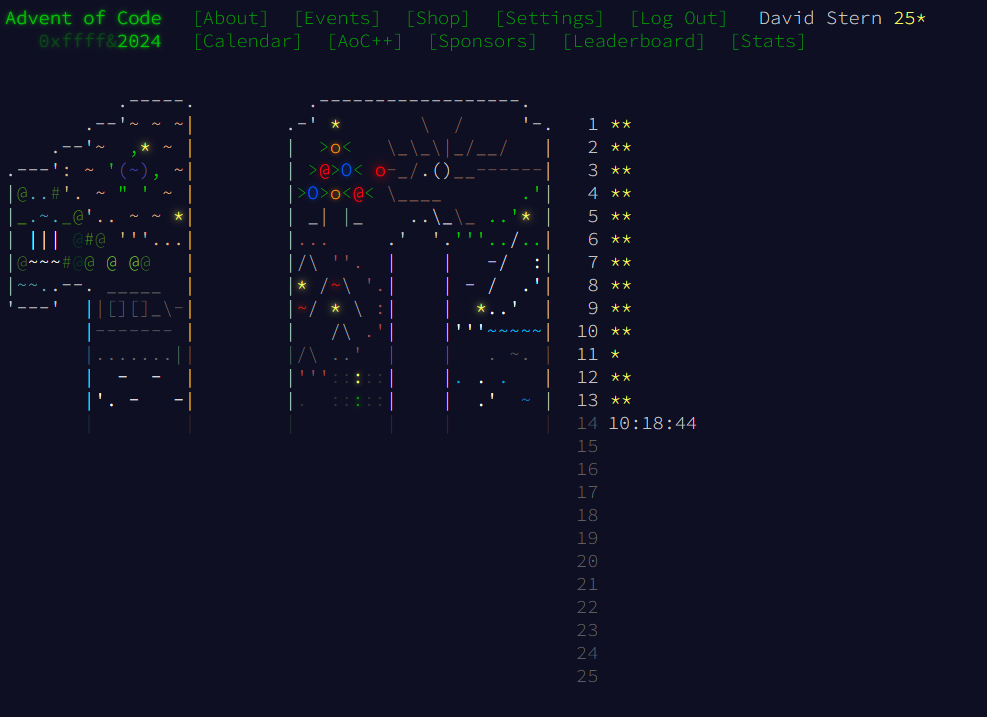
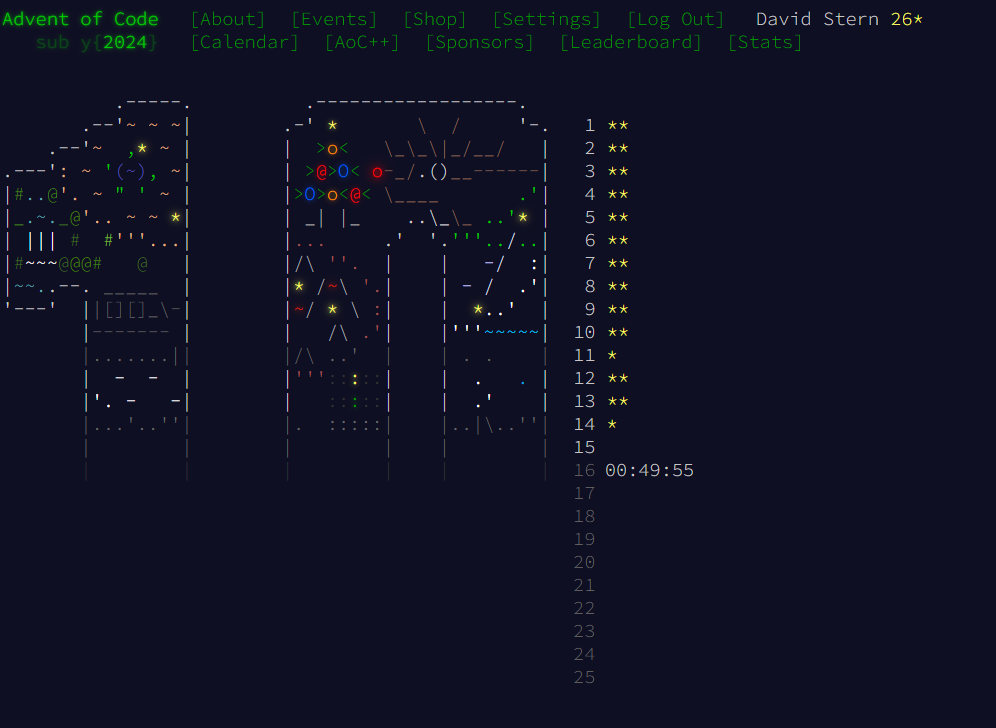
finished Day14 Part1

diff --git a/src/advent_solutions/day14.rs b/src/advent_solutions/day14.rs
@@ -1,0 +1,108 @@
+use std::collections::HashMap;
+
+use anyhow::{anyhow, Context};
+
+use super::{read_input_file, SolveAdvent};
+
+pub struct Day14;
+
+type OrderedPair = (i64, i64);
+
+///Represents a Robot guarding the bathroom
+#[derive(Debug, Clone, Copy)]
+struct Robot {
+    position: OrderedPair,
+    velocity: OrderedPair
+}
+
+///The position on the map of a given robot
+#[derive(Debug, Hash, PartialEq, Eq, Clone, Copy)]
+enum Quadrant {
+    UpperLeft,
+    UpperRight,
+    LowerLeft,
+    LowerRight,
+}
+
+impl Quadrant {
+    fn assign(robot: &Robot, board_dimensions: OrderedPair) -> Option<Self> {
+        //! Try to assign a robot to a quadrant. Any robot in the middle row or column
+        //! is not in a quadrant at all according to the problem.
+        let middle_row = board_dimensions.0 /2;
+        let middle_column = board_dimensions.1 / 2;
+        if robot.position.0 < middle_row && robot.position.1 < middle_column {
+            return Some(Quadrant::UpperLeft);
+        } 
+        else if robot.position.0 < middle_row && robot.position.1 > middle_column {
+            return Some(Quadrant::UpperRight);
+        }
+        else if robot.position.0 > middle_row && robot.position.1 < middle_column {
+            return Some(Quadrant::LowerLeft);
+        }
+        else if robot.position.0 > middle_row && robot.position.1 > middle_column {
+            return Some(Quadrant::LowerRight);
+        }
+        None
+    }
+}
+
+
+impl Robot {
+    fn try_new(line: &str) -> anyhow::Result<Robot> {
+        //! Parse the input line into a Robot's initial velocity and position. 
+        let [positions, velocities]: [&str; 2] = line.trim().split(' ').collect::<Vec<_>>().try_into().map_err(|_| anyhow!("Could not coerce line into 2 parts"))?;
+        let positions: Result<Vec<_>, _> = positions.replace("p=", "").split(',').map(|component| component.parse::<i64>()).collect();
+        let positions = positions.context("Failed to parse positions into integers")?;
+        let velocities: Result<Vec<_>, _> = velocities.replace("v=", "").split(',').map(|component| component.parse::<i64>() ).collect();
+        let velocities = velocities.context("Failed to parse velocities into integers")?;
+        anyhow::ensure!(velocities.len() == 2, anyhow!("Velocities vec must be length 2!"));
+        anyhow::ensure!(positions.len() == 2, anyhow!("Positions vec must be length 2!"));
+        Ok(Robot {
+            position:  (positions[1], positions[0]), //Order is swapped from problem input because our convention is row, col not the other way around!
+            velocity: (velocities[1], velocities[0])
+        })
+
+    }
+
+    fn tick(&mut self, board_dimensions: OrderedPair) {
+        //! Advance the robot by a second. Much like Pacman, a robot teleports to the other
+        //! side of the board when it runs off the map.
+        self.position = ((self.position.0 + self.velocity.0) % board_dimensions.0, (self.position.1 + self.velocity.1) % board_dimensions.1);
+        if self.position.0 < 0 {
+            self.position.0 += board_dimensions.0
+        }
+        if self.position.1 < 0 {
+            self.position.1 += board_dimensions.1;
+        }
+
+    }   
+}
+
+
+impl SolveAdvent for Day14 {
+    fn solve_part1(path_to_file: &str) -> anyhow::Result<()> {
+        let board_dimensions = (103, 101);
+        let file_contents = read_input_file(path_to_file)?;
+        let mut robots = file_contents.lines().map(Robot::try_new).collect::<Result<Vec<_>, _>>()?;
+        //Move the robots for 100 seconds
+        for _ in 0..100 {
+            for robot in robots.iter_mut() {
+                robot.tick(board_dimensions);
+            }
+        }
+        //Divide into quadrants and count how many are in each quadrant
+        let mut quadrant_map: HashMap<Quadrant, usize> = HashMap::new();
+        for robot in robots {
+            if let Some(quadrant) = Quadrant::assign(&robot, board_dimensions) {
+                *quadrant_map.entry(quadrant).or_default() += 1;
+            }
+        }
+        let safety_factor = quadrant_map.values().product::<usize>();
+        println!("Safety factor on board of dimension {}x{} is {}", board_dimensions.0, board_dimensions.1, safety_factor);
+        Ok(())
+    }
+
+    fn solve_part2(_path_to_file: &str) -> anyhow::Result<()> {
+        Ok(())
+    }
+}

diff --git a/src/main.rs b/src/main.rs
@@ -1,9 +1,9 @@
 mod advent_solutions;
-use crate::advent_solutions::day13::Day13;
+use crate::advent_solutions::day14::Day14;
 use crate::advent_solutions::SolveAdvent;
 
 fn main() -> anyhow::Result<()> {
-    Day13::solve_part1("input.txt")?;
-    Day13::solve_part2("input.txt")?;
+    Day14::solve_part1("input.txt")?;
+    Day14::solve_part2("test.txt")?;
     Ok(())
 }

diff --git a/src/advent_solutions.rs b/src/advent_solutions.rs
@@ -16,6 +16,7 @@ pub mod day10;
 pub mod day11;
 pub mod day12;
 pub mod day13;
+pub mod day14;
 
 pub fn read_input_file<P>(fp: P) -> anyhow::Result<String>
 where

diff --git a/README.md b/README.md
@@ -1,5 +1,5 @@
 ## Progress Summary
-Just like last year, I am working through the 2024 [Advent of Code](https://adventofcode.com/2024) problems. I currently have `25` stars. Each day's solutions are found in the `/advent_solutions` folder under the day in question. As requested by the creator of the problems, I do not provide the input text, only the code solutions. To run a certain solution, ensure that the correct input text is placed in an `input.txt` file. Just like last year, solutions implement the following trait: 
+Just like last year, I am working through the 2024 [Advent of Code](https://adventofcode.com/2024) problems. I currently have `26` stars. Each day's solutions are found in the `/advent_solutions` folder under the day in question. As requested by the creator of the problems, I do not provide the input text, only the code solutions. To run a certain solution, ensure that the correct input text is placed in an `input.txt` file. Just like last year, solutions implement the following trait: 
 ```rust
 pub trait SolveAdvent {
     ///How to solve part1 of the days puzzle.
